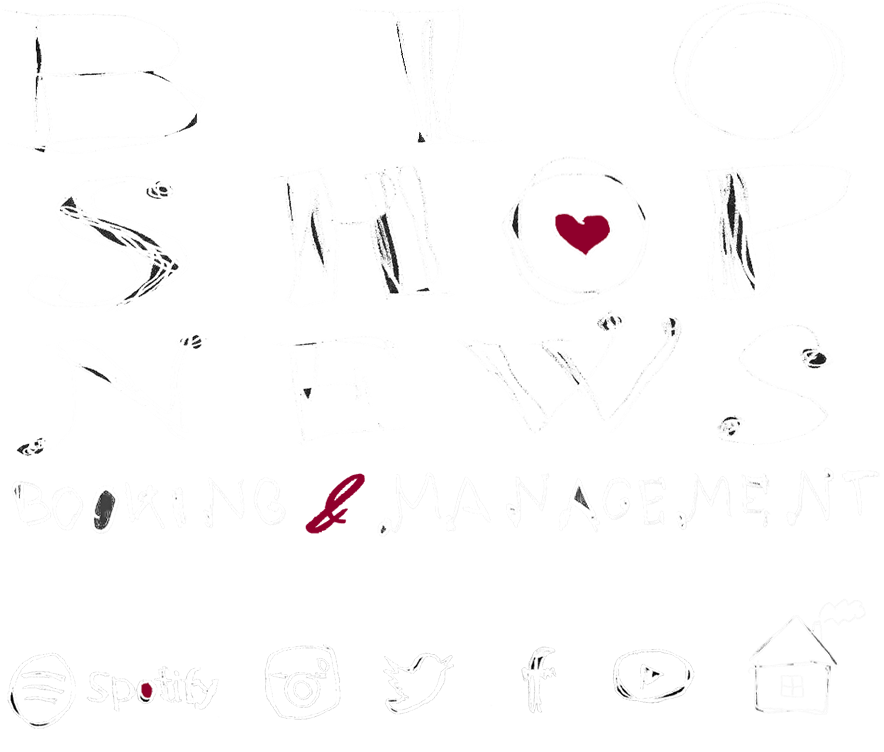
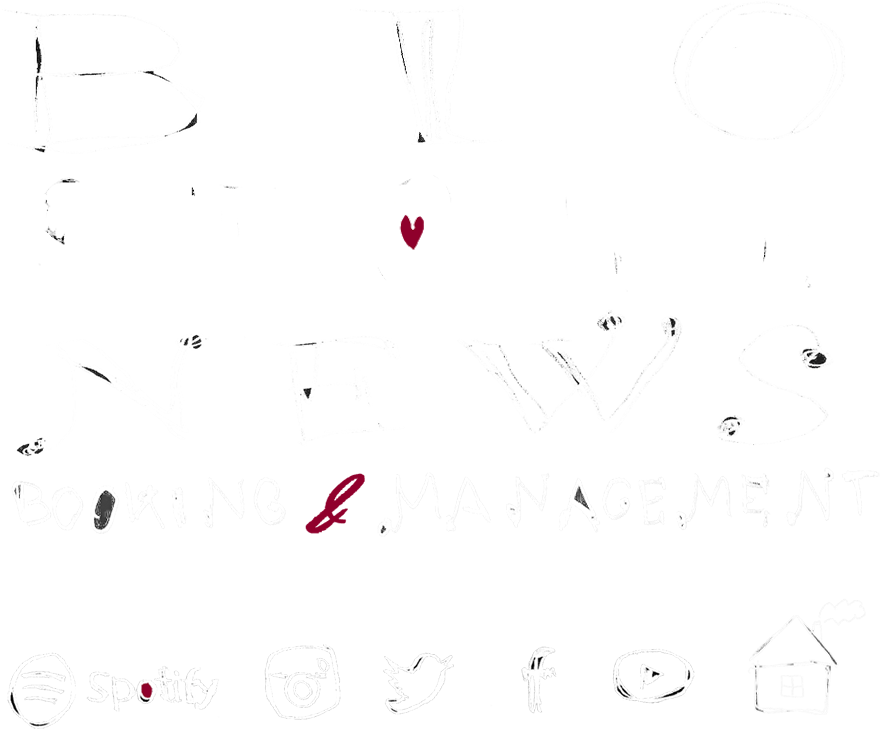
Add files via upload

diff --git a/news_movil.html b/news_movil.html
@@ -56,7 +56,7 @@ a:link {
 }
 .Estilo6 {color: #8F0715}
 body {
-	background-image: url(trtrgg.jpg);
+	background-image: url(mitad-movil.jpg);
 	background-repeat: repeat;
 	margin-top: 1cm;
 }
@@ -97,7 +97,7 @@ body {
             <p align="center">&nbsp;</p>
             <p align="center"><img src="fgshgdj.png" width="794" height="142"></p>
             <p align="center">&nbsp;</p>
-            <p align="center"><img src="derfregfe.jpg" width="794" height="529"></p>
+            <p align="center">&nbsp;</p>
             <p align="center">&nbsp;</p>
             <p align="center">&nbsp;</p>
             <p align="center"><a class="twitter-timeline" data-width="794" data-height="700" data-dnt="true" data-theme="dark" href="https://twitter.com/davidatenas_?ref_src=twsrc%5Etfw">Tweets by davidatenas_</a> <script async src="https://platform.twitter.com/widgets.js" charset="utf-8"></script>&nbsp;</p>
